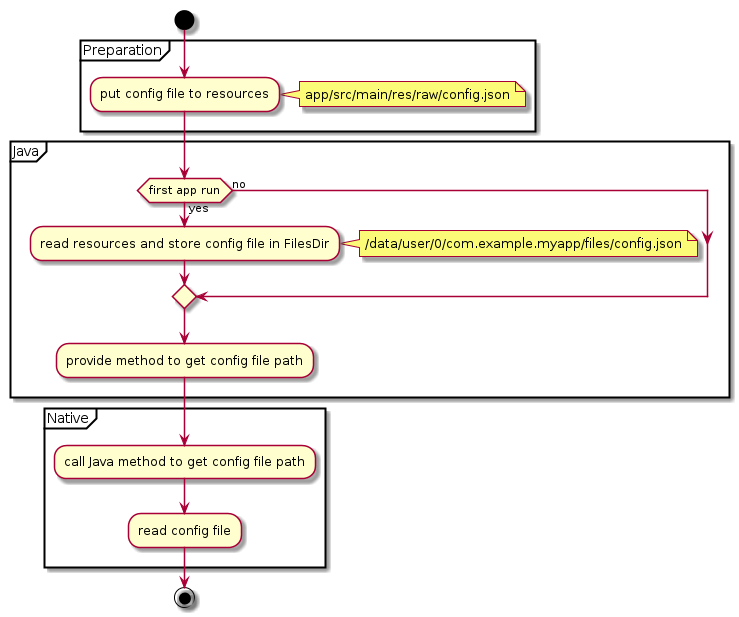
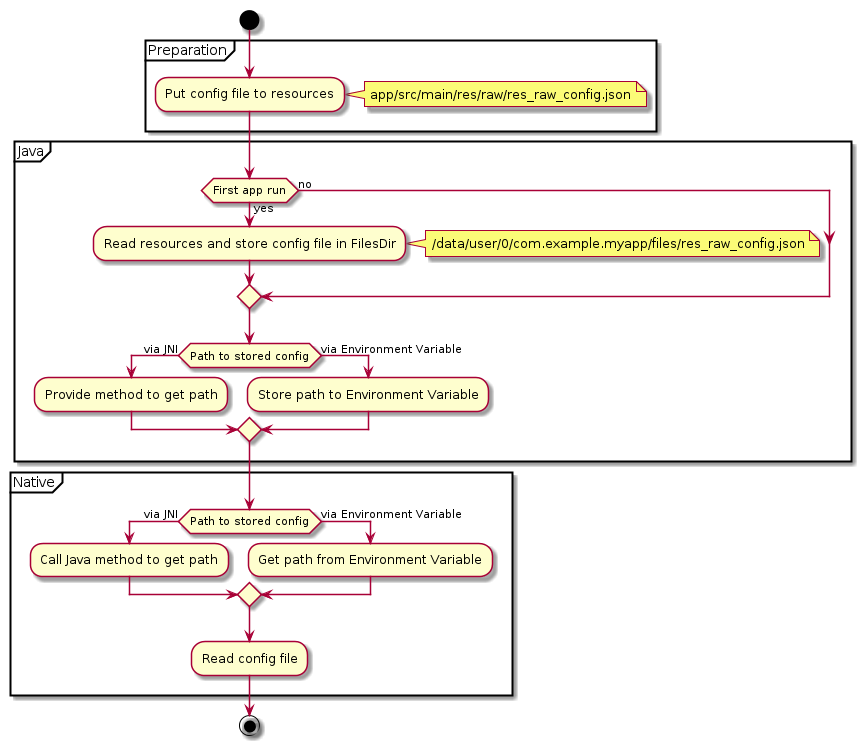
Add Asset option for config providing

diff --git a/app/src/main/cpp/MainActivityJNI.cpp b/app/src/main/cpp/MainActivityJNI.cpp
@@ -1,49 +1,123 @@
+#include <android/asset_manager.h>
+#include <android/asset_manager_jni.h>
 #include <android/log.h>
 #include <fstream>
 #include <jni.h>
+#include <sstream>
 #include <string>
 #include <unistd.h>
 
 namespace {
-const char* TAG = "MainActivityJNI";
+constexpr char* TAG = "MainActivityJNI";
+constexpr char* RES_RAW_CONFIG_PATH_ENV_VAR = "RES_RAW_CONFIG_PATH";
+constexpr char* RES_RAW_CONFIG_FILE_NAME = "res_raw_config.json";
+constexpr char* ASSET_CONFIG_FILE_NAME = "asset_config.json";
 
-std::string getConfigDirPathFromJava(JNIEnv* env, jobject obj);
-void readConfigFile(std::string filePath);
+jobject getAssetManagerFromJava(JNIEnv* env, jobject obj);
+void readConfigFromAsset(JNIEnv* env, jobject obj);
+#ifdef GET_PATH_VIA_ENV_VAR
+void readConfigFromResRaw();
+#else
+void readConfigFromResRaw(JNIEnv* env, jobject obj);
+std::string getResRawConfigDirFromJava(JNIEnv* env, jobject obj);
+#endif
+
+std::string readFile(std::string filePath);
+
 } // namespace
 
 #define LOGD(...) ((void)__android_log_print(ANDROID_LOG_DEBUG, TAG, __VA_ARGS__))
 
+// entry point to native code
 extern "C" JNIEXPORT jstring JNICALL
 Java_com_example_myapp_MainActivity_stringFromJNI(JNIEnv* env, jobject obj)
 {
-    readConfigFile(getConfigDirPathFromJava(env, obj) + "/config.json");
+    readConfigFromAsset(env, obj);
+
+#ifdef GET_PATH_VIA_ENV_VAR
+    readConfigFromResRaw();
+#else
+    readConfigFromResRaw(env, obj);
+#endif
 
     std::string hello = "Hello from C++";
     return env->NewStringUTF(hello.c_str());
 }
 
 namespace {
-std::string getConfigDirPathFromJava(JNIEnv* env, jobject obj)
+
+void readConfigFromAsset(JNIEnv* env, jobject obj)
+{
+    jobject jam = getAssetManagerFromJava(env, obj);
+    if (jam)
+    {
+        AAssetManager* am = AAssetManager_fromJava(env, jam);
+        if (am)
+        {
+            AAsset* assetFile = AAssetManager_open(am, ASSET_CONFIG_FILE_NAME, AASSET_MODE_BUFFER);
+
+            const void* buf = AAsset_getBuffer(assetFile);
+
+            LOGD("%s:\n%s", ASSET_CONFIG_FILE_NAME, static_cast<const char*>(buf));
+        }
+    }
+}
+
+#ifdef GET_PATH_VIA_ENV_VAR
+void readConfigFromResRaw()
+{
+    LOGD("Get config path via Environment Variable");
+    std::string configPath = getenv(RES_RAW_CONFIG_PATH_ENV_VAR);
+
+    LOGD(
+        "%s/%s:\n%s",
+        configPath.c_str(),
+        RES_RAW_CONFIG_FILE_NAME,
+        readFile(configPath + "/" + RES_RAW_CONFIG_FILE_NAME).c_str());
+}
+#else
+void readConfigFromResRaw(JNIEnv* env, jobject obj)
+{
+    LOGD("Get config path via JNI");
+    std::string configPath = getResRawConfigDirFromJava(env, obj);
+
+    LOGD(
+        "%s/%s:\n%s",
+        configPath.c_str(),
+        RES_RAW_CONFIG_FILE_NAME,
+        readFile(configPath + "/" + RES_RAW_CONFIG_FILE_NAME).c_str());
+}
+
+std::string getResRawConfigDirFromJava(JNIEnv* env, jobject obj)
 {
     jclass clazz = env->GetObjectClass(obj); // or env->FindClass("com/example/myapp/MainActivity");
-    jmethodID method = env->GetMethodID(clazz, "getConfigDirPath", "()Ljava/lang/String;");
+    jmethodID method = env->GetMethodID(clazz, "getResRawConfigDir", "()Ljava/lang/String;");
     jobject ret = env->CallObjectMethod(obj, method);
 
     jstring jConfigDirPath = (jstring)ret;
 
     return std::string(env->GetStringUTFChars(jConfigDirPath, nullptr));
 }
+#endif
 
-void readConfigFile(std::string filePath)
+jobject getAssetManagerFromJava(JNIEnv* env, jobject obj)
+{
+    jclass clazz = env->GetObjectClass(obj); // or env->FindClass("com/example/myapp/MainActivity");
+    jmethodID method =
+        env->GetMethodID(clazz, "getAssetManager", "()Landroid/content/res/AssetManager;");
+    jobject ret = env->CallObjectMethod(obj, method);
+
+    return ret;
+}
+
+std::string readFile(std::string filePath)
 {
     std::ifstream ifs(filePath);
-    std::string line;
+    std::stringstream ss;
 
-    LOGD("%s:", filePath.c_str());
+    ss << ifs.rdbuf();
 
-    while (std::getline(ifs, line))
-    {
-        LOGD("%s", line.c_str());
-    }
+    return ss.str();
 }
+
 } // namespace

diff --git a/app/src/main/java/com/example/myapp/MainActivity.java b/app/src/main/java/com/example/myapp/MainActivity.java
@@ -3,7 +3,10 @@ package com.example.myapp;
 import androidx.appcompat.app.AppCompatActivity;
 
 import android.content.Context;
+import android.content.res.AssetManager;
 import android.os.Bundle;
+import android.system.ErrnoException;
+import android.system.Os;
 import android.util.Log;
 import android.widget.TextView;
 
@@ -15,7 +18,8 @@ import java.io.InputStream;
 
 public class MainActivity extends AppCompatActivity {
     private static final String TAG = "MainActivity";
-    private static final String ConfigFileName = "config.json";
+    private static final String RES_RAW_CONFIG_PATH_ENV_VAR = "RES_RAW_CONFIG_PATH";
+    private static final String RES_RAW_CONFIG_FILE_NAME = "res_raw_config.json";
 
     // Used to load the 'native-lib' library on application startup.
     static {
@@ -27,7 +31,7 @@ public class MainActivity extends AppCompatActivity {
         super.onCreate(savedInstanceState);
         setContentView(R.layout.activity_main);
 
-        initNativeConfig();
+        initResRawConfig(true);
 
         // Example of a call to a native method
         TextView tv = findViewById(R.id.sample_text);
@@ -42,13 +46,20 @@ public class MainActivity extends AppCompatActivity {
         return false;
     }
 
-    private void initNativeConfig() {
-        if (existsInFilesDir(ConfigFileName)) {
-            Log.d(TAG, "Config file: " + ConfigFileName + " already exists in " + getFilesDir().toString());
+    private void initResRawConfig(boolean forceCopy) {
+        if (existsInFilesDir(RES_RAW_CONFIG_FILE_NAME) && !forceCopy) {
+            Log.d(TAG, "Config file: " + RES_RAW_CONFIG_FILE_NAME + " already exists in " + getFilesDir().toString());
         }
         else {
-            copyFileFromResToFilesDir(R.raw.config, ConfigFileName);
-            Log.d(TAG, "Config file: " + ConfigFileName + " copied to " + getFilesDir().toString());
+            copyFileFromResToFilesDir(R.raw.res_raw_config, RES_RAW_CONFIG_FILE_NAME);
+            Log.d(TAG, "Config file: " + RES_RAW_CONFIG_FILE_NAME + " copied to " + getFilesDir().toString());
+        }
+
+        // Set Environment Variable to get path from native
+        try {
+            Os.setenv(RES_RAW_CONFIG_PATH_ENV_VAR, getFilesDir().getAbsolutePath(), true);
+        } catch (ErrnoException e) {
+            e.printStackTrace();
         }
     }
 
@@ -76,10 +87,12 @@ public class MainActivity extends AppCompatActivity {
         }
     }
 
-    public String getConfigDirPath()
+    public String getResRawConfigDir()
     {
         return getFilesDir().toString();
     }
+
+    public AssetManager getAssetManager() { return getAssets(); }
 
     /**
      * A native method that is implemented by the 'native-lib' native library,

diff --git a/README.md b/README.md
@@ -1,16 +1,47 @@
 # ndk-config-provider
-Android Studio example how to provide configuration from resources which are only accessible on Java
-to Native (C/C++).
+Android Studio example how to provide configuration from assets (app/src/main/assets) or resources (app/src/main/res/raw) to Native (C/C++) code.
 
-## Activity diagram
+## How it works
+### Assets
+It performs via [NDK Asset API](https://developer.android.com/ndk/reference/group/asset)
+
+### Raw Resorces
+To access config file hosted in resorces from native code, you need to do some workarounds:
+1. Copy the resource file to the local app storage.
+2. Provide the path to stored file to native via JNI or via Environment Variable.
+
+The following diagram shows this:
+
 ![Activity diagram](https://github.com/nkh-lab/ndk-config-provider/blob/master/doc/activity-diagram.png)
 
 ## Expected logcat output
 For "MainActivityJNI" tag: 
+
+Getting path to configuration folder via calling JNI method from Java (```GET_PATH_VIA_ENV_VAR``` is not defined):
 ```
-2020-09-08 11:42:49.772 14528-14528/com.example.myapp D/MainActivityJNI: /data/user/0/com.example.myapp/files/config.json:
-2020-09-08 11:42:49.772 14528-14528/com.example.myapp D/MainActivityJNI: {
-2020-09-08 11:42:49.772 14528-14528/com.example.myapp D/MainActivityJNI:     "id": 1234
-2020-09-08 11:42:49.772 14528-14528/com.example.myapp D/MainActivityJNI:     "name": "nkh-lab"
-2020-09-08 11:42:49.772 14528-14528/com.example.myapp D/MainActivityJNI: }
+2021-04-20 12:39:41.115 26129-26129/com.example.myapp D/MainActivityJNI: asset_config.json:
+    {
+        "id": 1234,
+        "name": "asset_config"
+    }
+2021-04-20 12:39:41.115 26129-26129/com.example.myapp D/MainActivityJNI: Get config path via JNI
+2021-04-20 12:39:41.115 26129-26129/com.example.myapp D/MainActivityJNI: /data/user/0/com.example.myapp/files/res_raw_config.json:
+    {
+        "id": 5678,
+        "name": "res_raw_config"
+    }
+```
+Getting path to configuration folder via setting-getting Environment Variable (```GET_PATH_VIA_ENV_VAR``` is defined):
+```
+2021-04-20 12:41:24.515 26278-26278/com.example.myapp D/MainActivityJNI: asset_config.json:
+    {
+        "id": 1234,
+        "name": "asset_config"
+    }
+2021-04-20 12:41:24.516 26278-26278/com.example.myapp D/MainActivityJNI: Get config path via Environment Variable
+2021-04-20 12:41:24.516 26278-26278/com.example.myapp D/MainActivityJNI: /data/user/0/com.example.myapp/files/res_raw_config.json:
+    {
+        "id": 5678,
+        "name": "res_raw_config"
+    }
 ```
